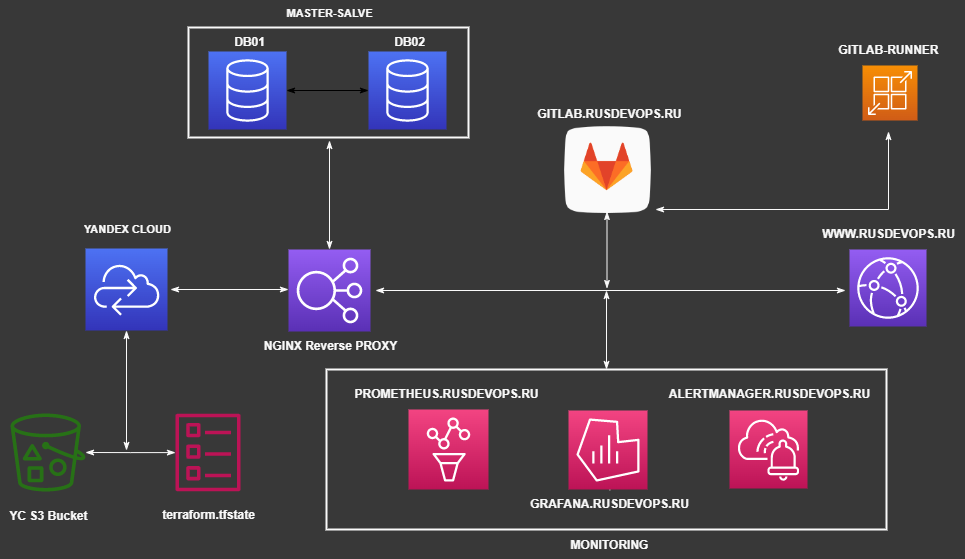
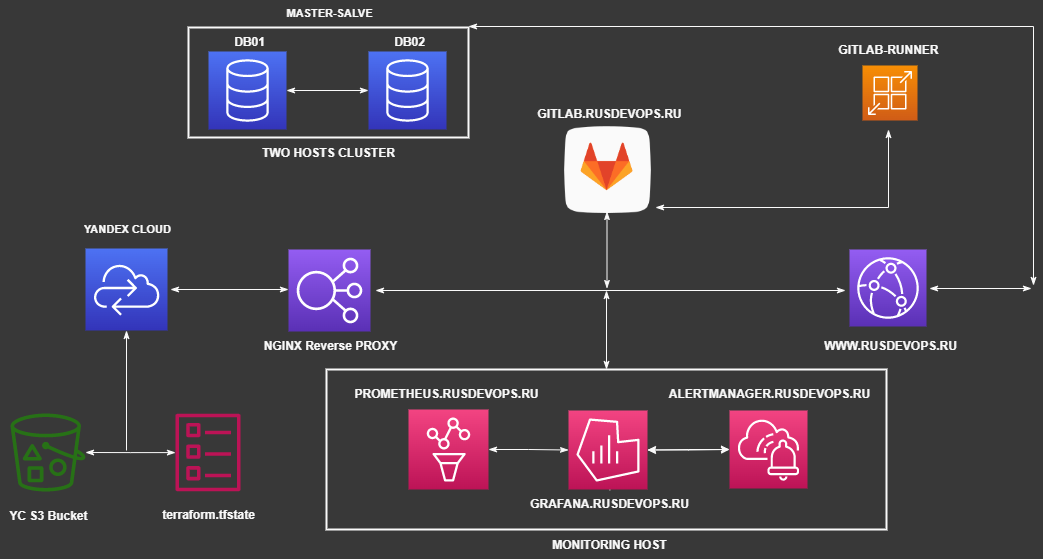
Final Update

diff --git a/homework/diplom-netology/Netology_diplom_project.md b/homework/diplom-netology/Netology_diplom_project.md
@@ -1,6 +1,6 @@
 # Дипломный практикум по курсу DevOps-инженер в YandexCloud
 
-## Диаграмма инфраструктуры
+## Схема инфраструктуры
 
 ![diagram](img/diagram.png)
 
